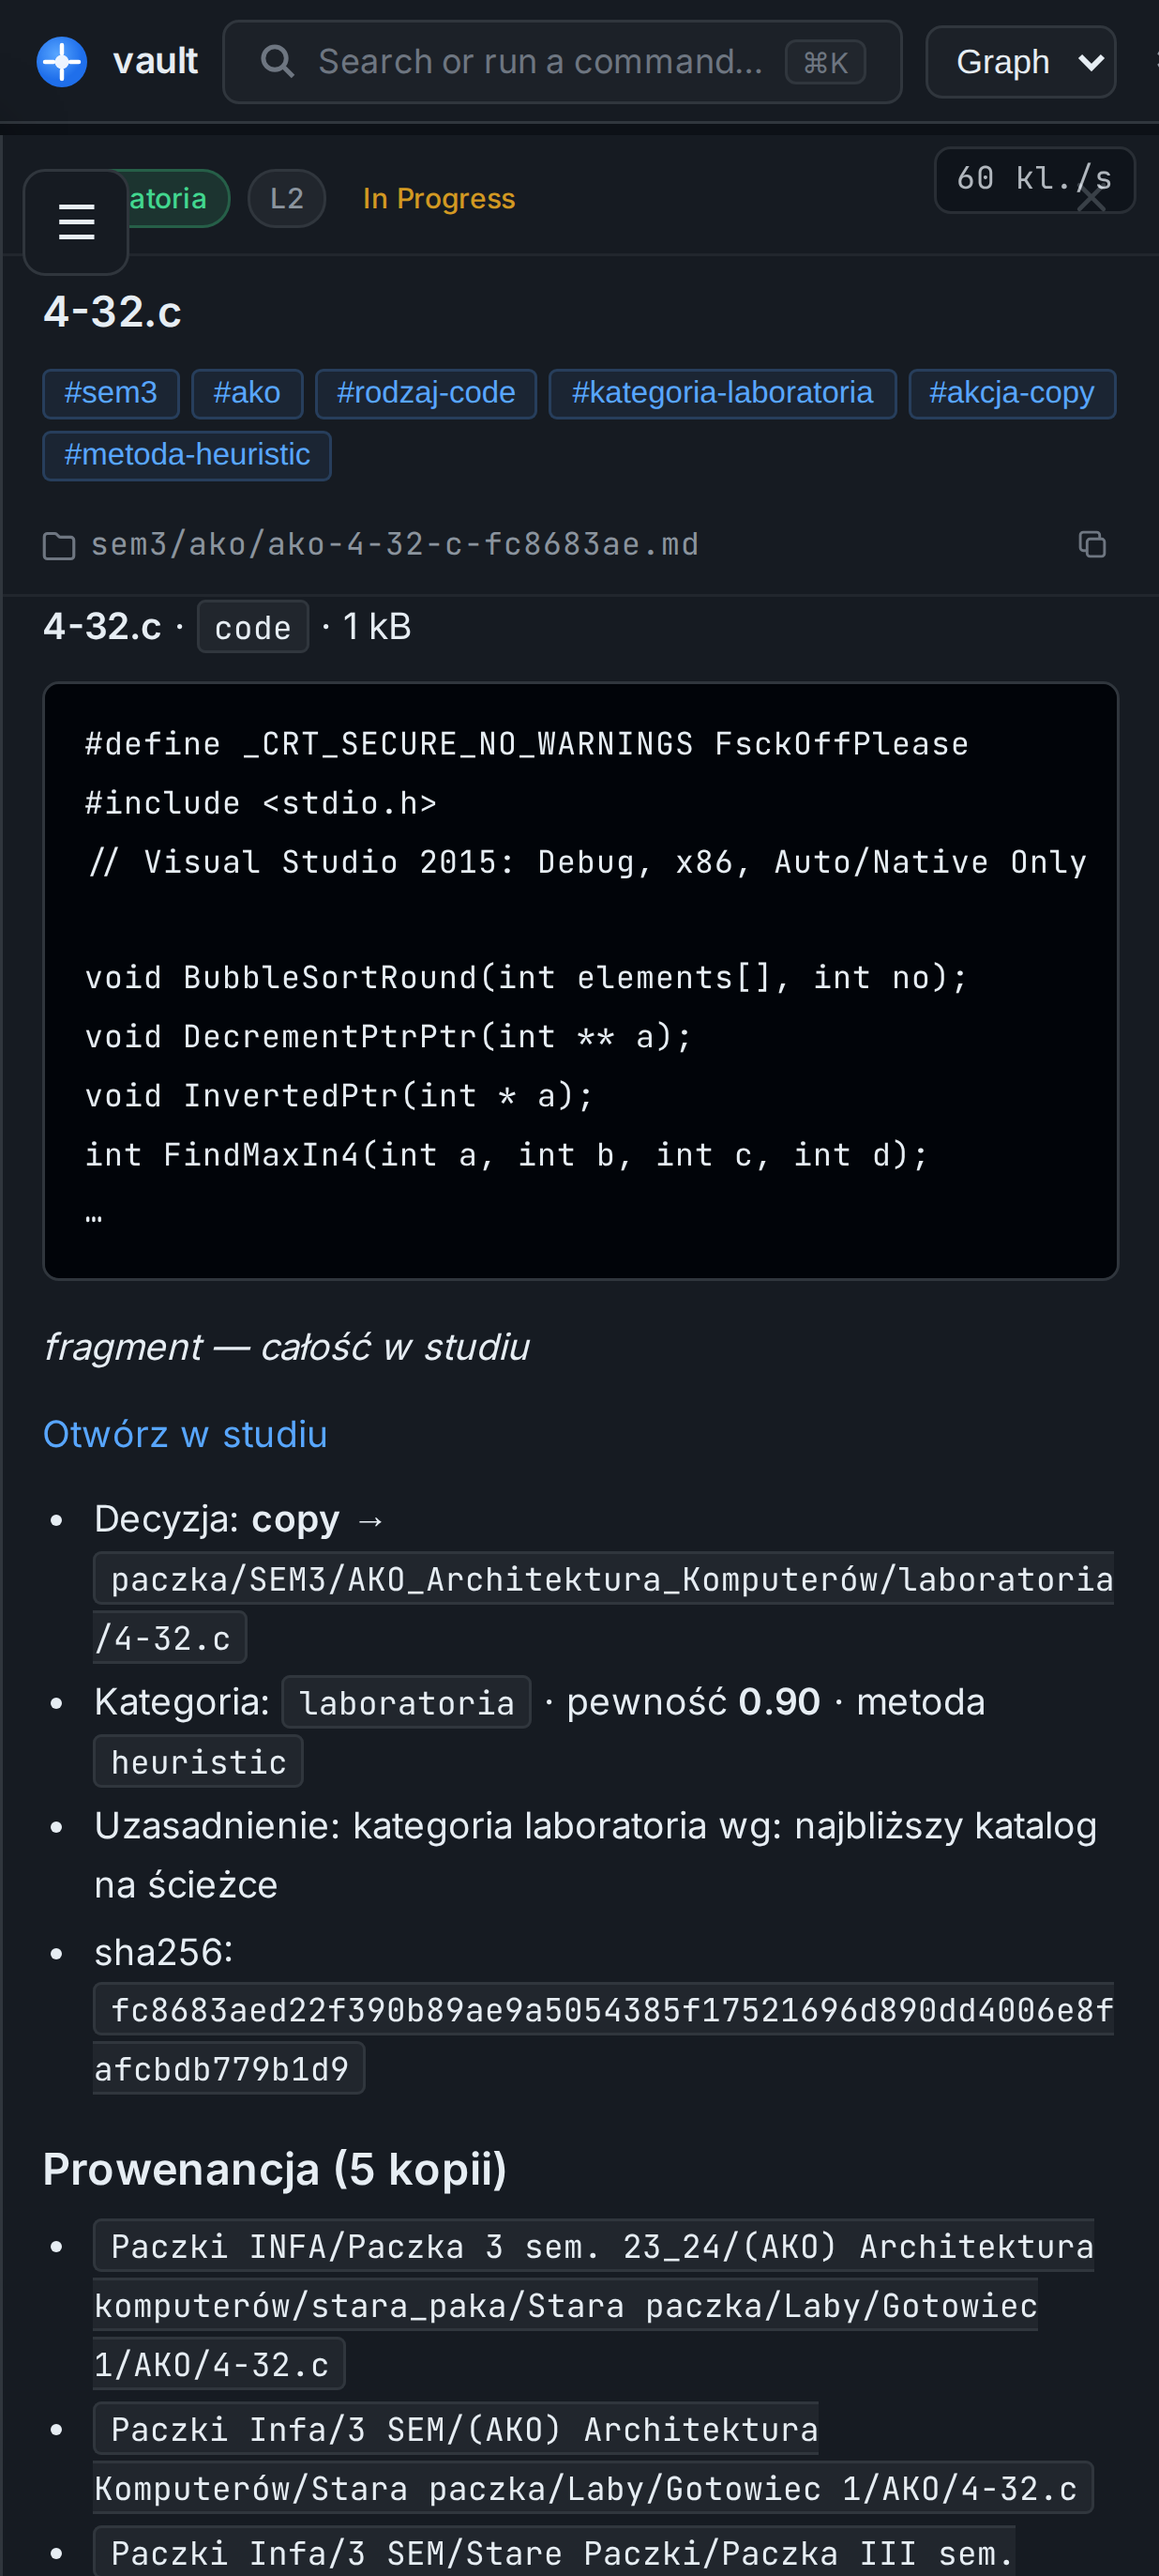
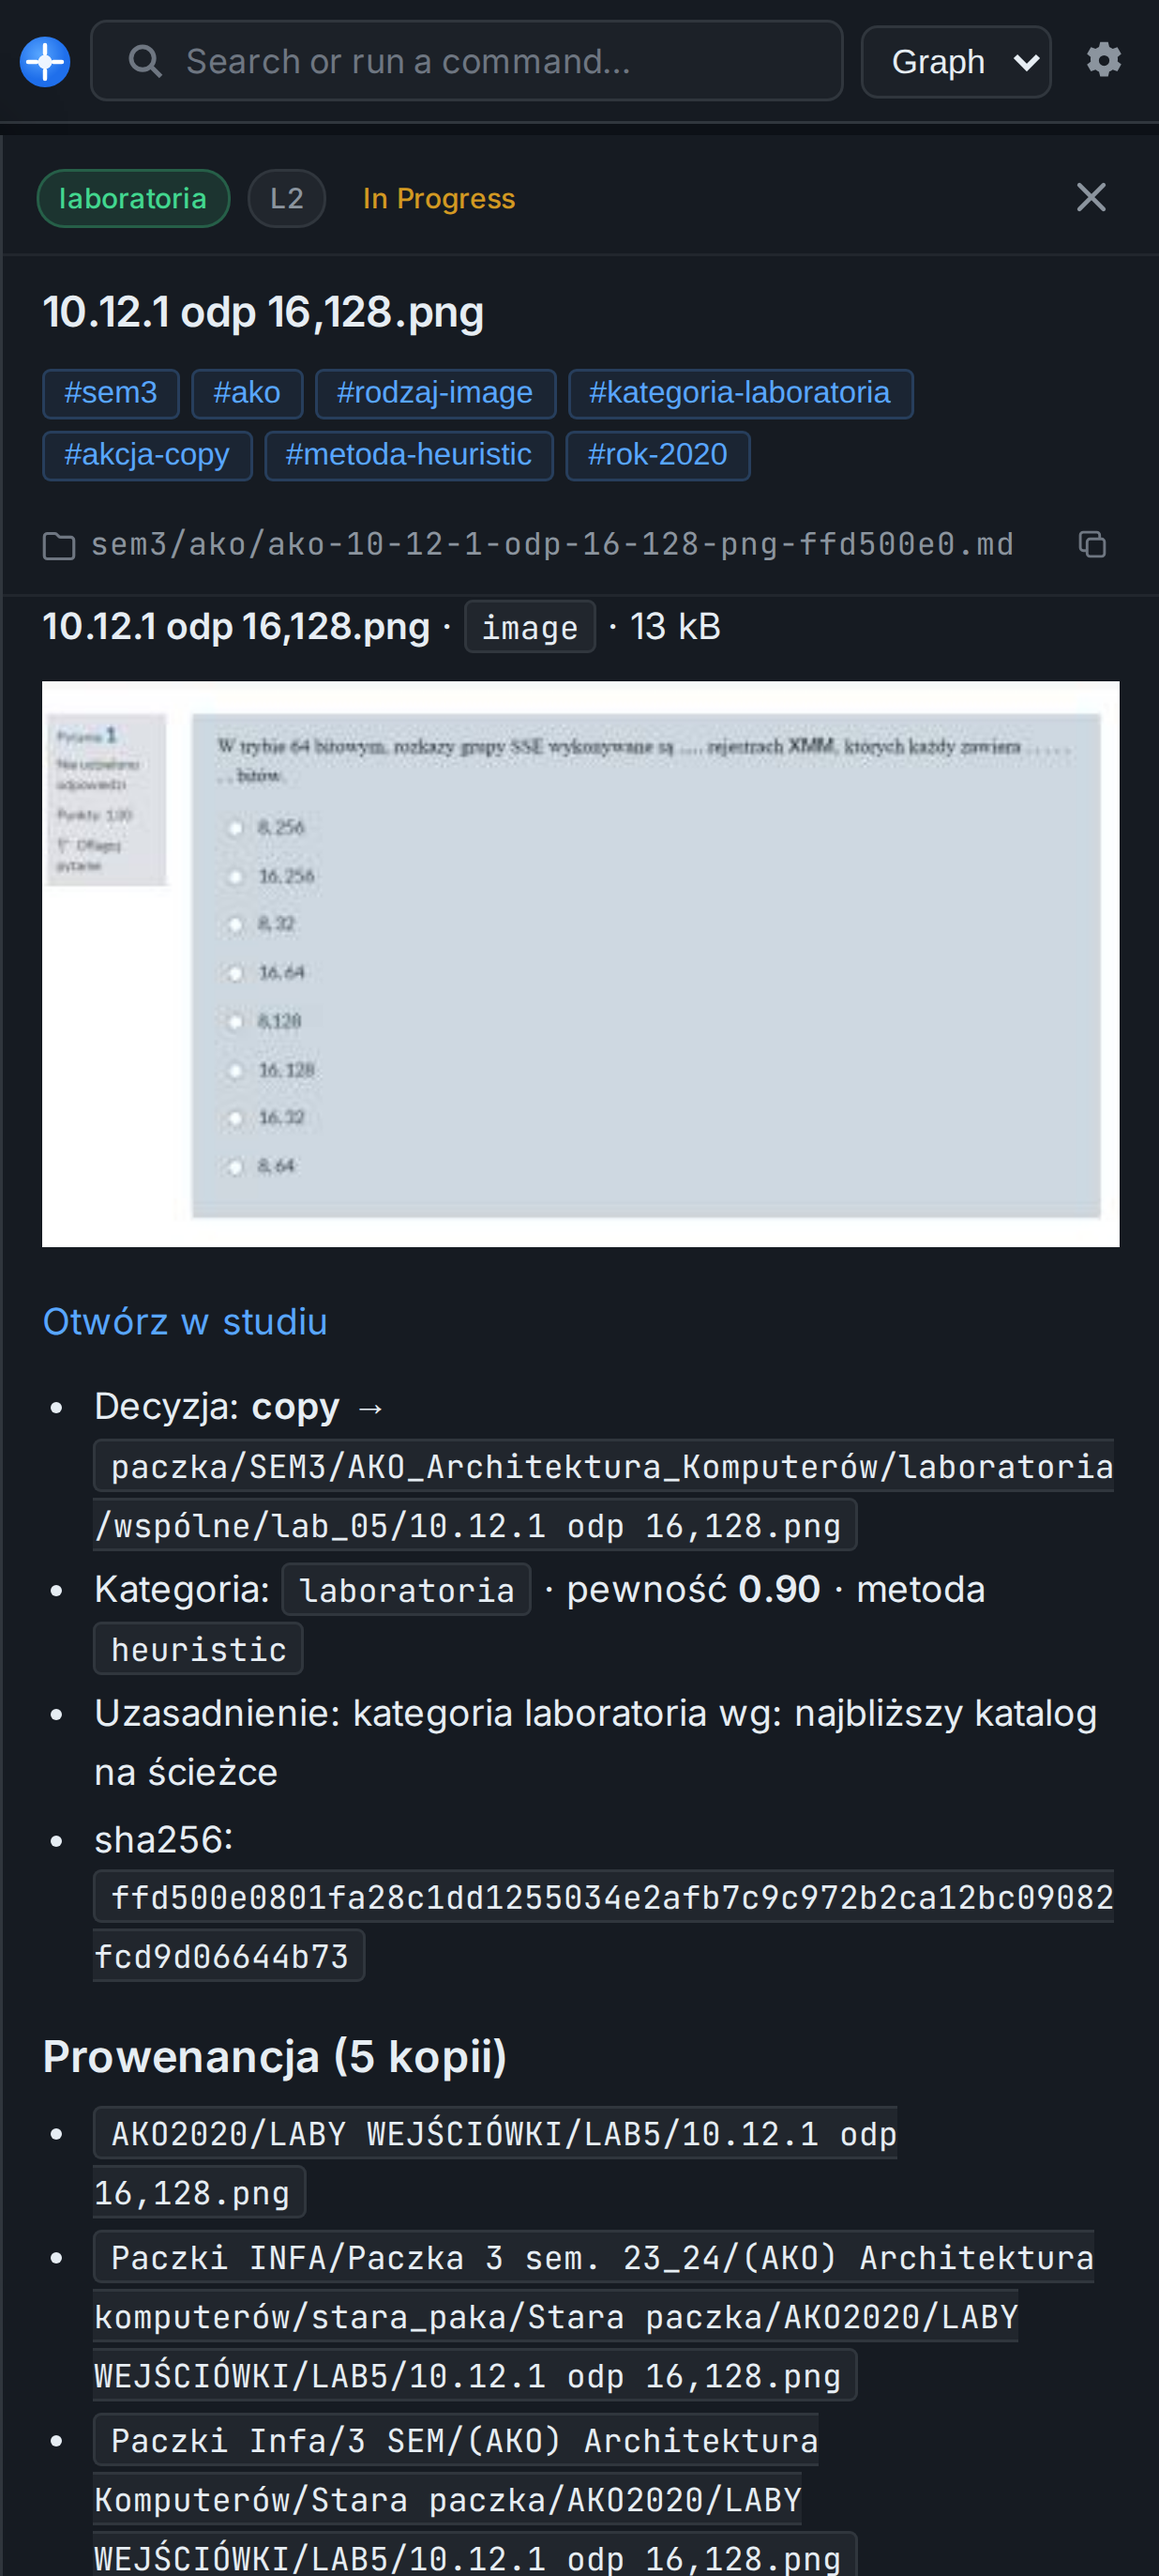
fix(graf): let the open note win the phone screen
The filters button and the `kl./s` badge still landed on the note panel's header,
covering its category chip and the close button.

This was the third attempt at the same collision, and the first two only moved the
buttons between corners. The user's suggestion is the right frame: on a narrow screen
only one panel fits, so the open note takes the screen — the floating filters button
and the measurement badge disappear while it is open and come back when it closes. A
floating button above a full-screen panel has nothing to open next to it anyway.

Worth remembering: while two panels fight over the same screen, moving things around
never ends; you have to decide which one matters.

Claude-Session: https://claude.ai/code/session_01DJeTgEcmeih3PWGXkw9Fph

diff --git a/organizer/studio/graf/synapse-viewer/src/layout/ClassicShell.svelte b/organizer/studio/graf/synapse-viewer/src/layout/ClassicShell.svelte
@@ -8,6 +8,15 @@
    */
   let filtersOpen = false
   import { createEventDispatcher } from 'svelte'
+  import { selectedId } from '../stores/selectionStore'
+
+  /**
+   * Na telefonie mieści się JEDEN panel naraz, więc pływające przyciski nie mają czego
+   * dotyczyć: przycisk filtrów siadał na nagłówku otwartej notatki i zasłaniał jej
+   * kategorię (zgłoszone 2026-09-24). Otwarta notatka jest wtedy na wierzchu, a filtry
+   * wracają, gdy ją zamkniesz.
+   */
+  $: detailOpen = $selectedId !== null
 
   export let view: 'graph' | 'cards' | 'dash' | 'venn' = 'graph'
   export let vaultName: string = 'Synapse'
@@ -102,11 +111,12 @@
   <button
     class="filters-toggle"
     class:open={filtersOpen}
+    class:hidden={detailOpen && !filtersOpen}
     aria-label={filtersOpen ? 'Hide filters' : 'Show filters'}
     on:click={() => (filtersOpen = !filtersOpen)}
   >{filtersOpen ? '×' : '☰'}</button>
 
-  <div class="content-row" class:filters-open={filtersOpen}>
+  <div class="content-row" class:filters-open={filtersOpen} class:detail-open={detailOpen}>
     <!-- Left sidebar: filter panel slot -->
     <slot name="filters" />
 
@@ -321,10 +331,16 @@
     }
 
     /* Otwarta szuflada: przycisk przenosi się na JEJ prawą krawędź. W rogu zasłaniał
-       tytuł panelu filtrów, a po zamknięciu wchodził na panel notatki. */
+       tytuł panelu filtrów. */
     .filters-toggle.open {
       left: auto;
       right: 8px;
+    }
+
+    /* Otwarta notatka zajmuje cały ekran — przycisk filtrów nie ma wtedy czego
+       otwierać obok, a siedział na jej nagłówku. */
+    .filters-toggle.hidden {
+      display: none;
     }
 
     /* Panel notatki jest wtedy arkuszem na całą szerokość, nie trzecią kolumną. */

diff --git a/organizer/studio/graf/synapse-viewer/src/components/graph/GraphCanvas.svelte b/organizer/studio/graf/synapse-viewer/src/components/graph/GraphCanvas.svelte
@@ -59,6 +59,8 @@
    * właśnie tę część ekranu, na którą się patrzy.
    */
   let diagMini = $state(typeof window !== 'undefined' && window.innerWidth <= 720)
+  /** Otwarta notatka zajmuje na telefonie cały ekran — pomiary ustępują jej miejsca. */
+  let detalOtwarty = $state(false)
   let stats = $state({
     fps: 0, drawMs: 0, nodesDrawn: 0, edgesDrawn: 0, labelsDrawn: 0,
     scale: 1, renderDpr: 1, deviceDpr: 1,
@@ -388,7 +390,12 @@
 
     // Immediately redraw when selection/visibility/hover changes
     const scheduleRender = () => renderer?.scheduleRender()
-    const unsubSelected  = selectedId.subscribe(scheduleRender)
+    const unsubSelected = selectedId.subscribe((id) => {
+      // Na wąskim ekranie panel notatki jest arkuszem na całą szerokość: plakietka
+      // pomiarów zasłaniałaby jego nagłówek, więc na ten czas znika.
+      detalOtwarty = id !== null && window.innerWidth <= 820
+      scheduleRender()
+    })
     // Relayout when the visible SET changes (not merely when something re-renders).
     let lastVisibleKey = [...get(visibleNodeIds)].sort().join(',')
     let relayoutTimer: ReturnType<typeof setTimeout> | null = null
@@ -446,6 +453,7 @@
   <button
     class="diag"
     class:mini={diagMini}
+    class:hidden={detalOtwarty}
     title={diagMini ? 'Pokaż pomiary' : 'Schowaj pomiary'}
     onclick={() => (diagMini = !diagMini)}
   >
@@ -475,6 +483,9 @@
     line-height: 1.45;
     text-align: left;
     cursor: pointer;
+  }
+  .diag.hidden {
+    display: none;
   }
   .diag.mini {
     padding: 3px 7px;

diff --git a/organizer/reports/HANDOFF.md b/organizer/reports/HANDOFF.md
@@ -2,6 +2,8 @@
 
 ## Kontekst ręczny
 
+- **Pływające przyciski ustępują otwartej notatce (2026-09-24, propozycja użytkownika).** Na telefonie mieści się jeden panel, więc przycisk szuflady filtrów i plakietka `kl./s` znikają, gdy panel notatki jest otwarty, i wracają po zamknięciu. To był trzeci podejście do tego samego zderzenia — dwa poprzednie tylko przesuwały przyciski po rogach. **Dopóki dwa panele walczą o ten sam ekran, przesuwanie nie ma końca; trzeba rozstrzygnąć, który jest ważniejszy.**
+
 - **Filtry grafu przeżywają odświeżenie (2026-09-24).** `localStorage`, ale z przycinaniem do słownika BIEŻĄCEGO grafu — tagi, typy węzłów, kategorie i rodzaje relacji potrafią zniknąć przy przebudowie vaulta, a filtr wskazujący nieistniejący tag gasi widok bez śladu, dlaczego. Pusty wybór nie jest przywracany (wchodzi widok domyślny). Moduł `stores/filterPersistence.ts` z testami.
 - **Druga tura poprawek mobilnych:** pasek viewera chowa nazwę vaulta i skrót `⌘K` poniżej 720 px (koło zębate wystawało), plakietka `kl./s` przenosi się na lewo (zasłaniała `×` panelu notatki), przycisk szuflady filtrów po otwarciu idzie na prawą krawędź szuflady (siedział na tytule panelu), a menu trybów w samym studiu poniżej 1100 px jest listą rozwijaną. Przyciski i lista trybów czytają z jednej tablicy `MODES` — dwa źródła tej samej prawdy rozjechałyby się przy pierwszej zmianie.
 

diff --git a/organizer/studio/TODO-studio.md b/organizer/studio/TODO-studio.md
@@ -502,7 +502,12 @@ Cztery zgłoszenia z jednego ekranu, wszystkie o układzie, nie o danych:
   widok bez śladu, dlaczego. Pusty wybór nie jest przywracany — wtedy wchodzi widok
   domyślny, czyli szkielet paczki;
 - **menu trybów w studiu** poniżej 1100 px też jest listą rozwijaną; przyciski i lista
-  czytają z jednej tablicy `MODES`, żeby nie rozjechały się przy kolejnej zmianie.
+  czytają z jednej tablicy `MODES`, żeby nie rozjechały się przy kolejnej zmianie;
+- **pływające przyciski ustępują otwartej notatce** (propozycja użytkownika): na wąskim
+  ekranie mieści się jeden panel, więc przycisk filtrów i plakietka pomiarów znikają,
+  gdy notatka jest otwarta, i wracają po jej zamknięciu. Przesuwanie ich w kółko po
+  rogach nie miało końca — dopóki dwa panele walczą o ten sam ekran, zawsze coś zasłania
+  coś innego.
 
 ## Zależności od potoku
 

diff --git a/organizer/studio/README.md b/organizer/studio/README.md
@@ -304,6 +304,10 @@ a podgląd `?diag=1` startuje na telefonie zwinięty do plakietki, rozwija się 
 i stoi po lewej, żeby nie zasłaniać `×` panelu notatki. Przycisk szuflady filtrów po
 otwarciu przenosi się na jej prawą krawędź — w rogu zasłaniał tytuł panelu.
 
+Gdy na ekran wchodzi tylko JEDEN panel, otwarta notatka jest na wierzchu: przycisk filtrów
+i plakietka pomiarów znikają na czas jej czytania i wracają po zamknięciu. Pływający
+przycisk nad panelem, który zajmuje cały ekran, nie ma czego otwierać obok.
+
 **Wybór filtrów przeżywa odświeżenie.** Zapisany w `localStorage`, a przy wczytaniu
 przycinany do tego, co w TYM grafie istnieje: po przebudowie vaulta tag po przedmiocie,
 którego już nie ma, gasiłby widok bez śladu, dlaczego.
